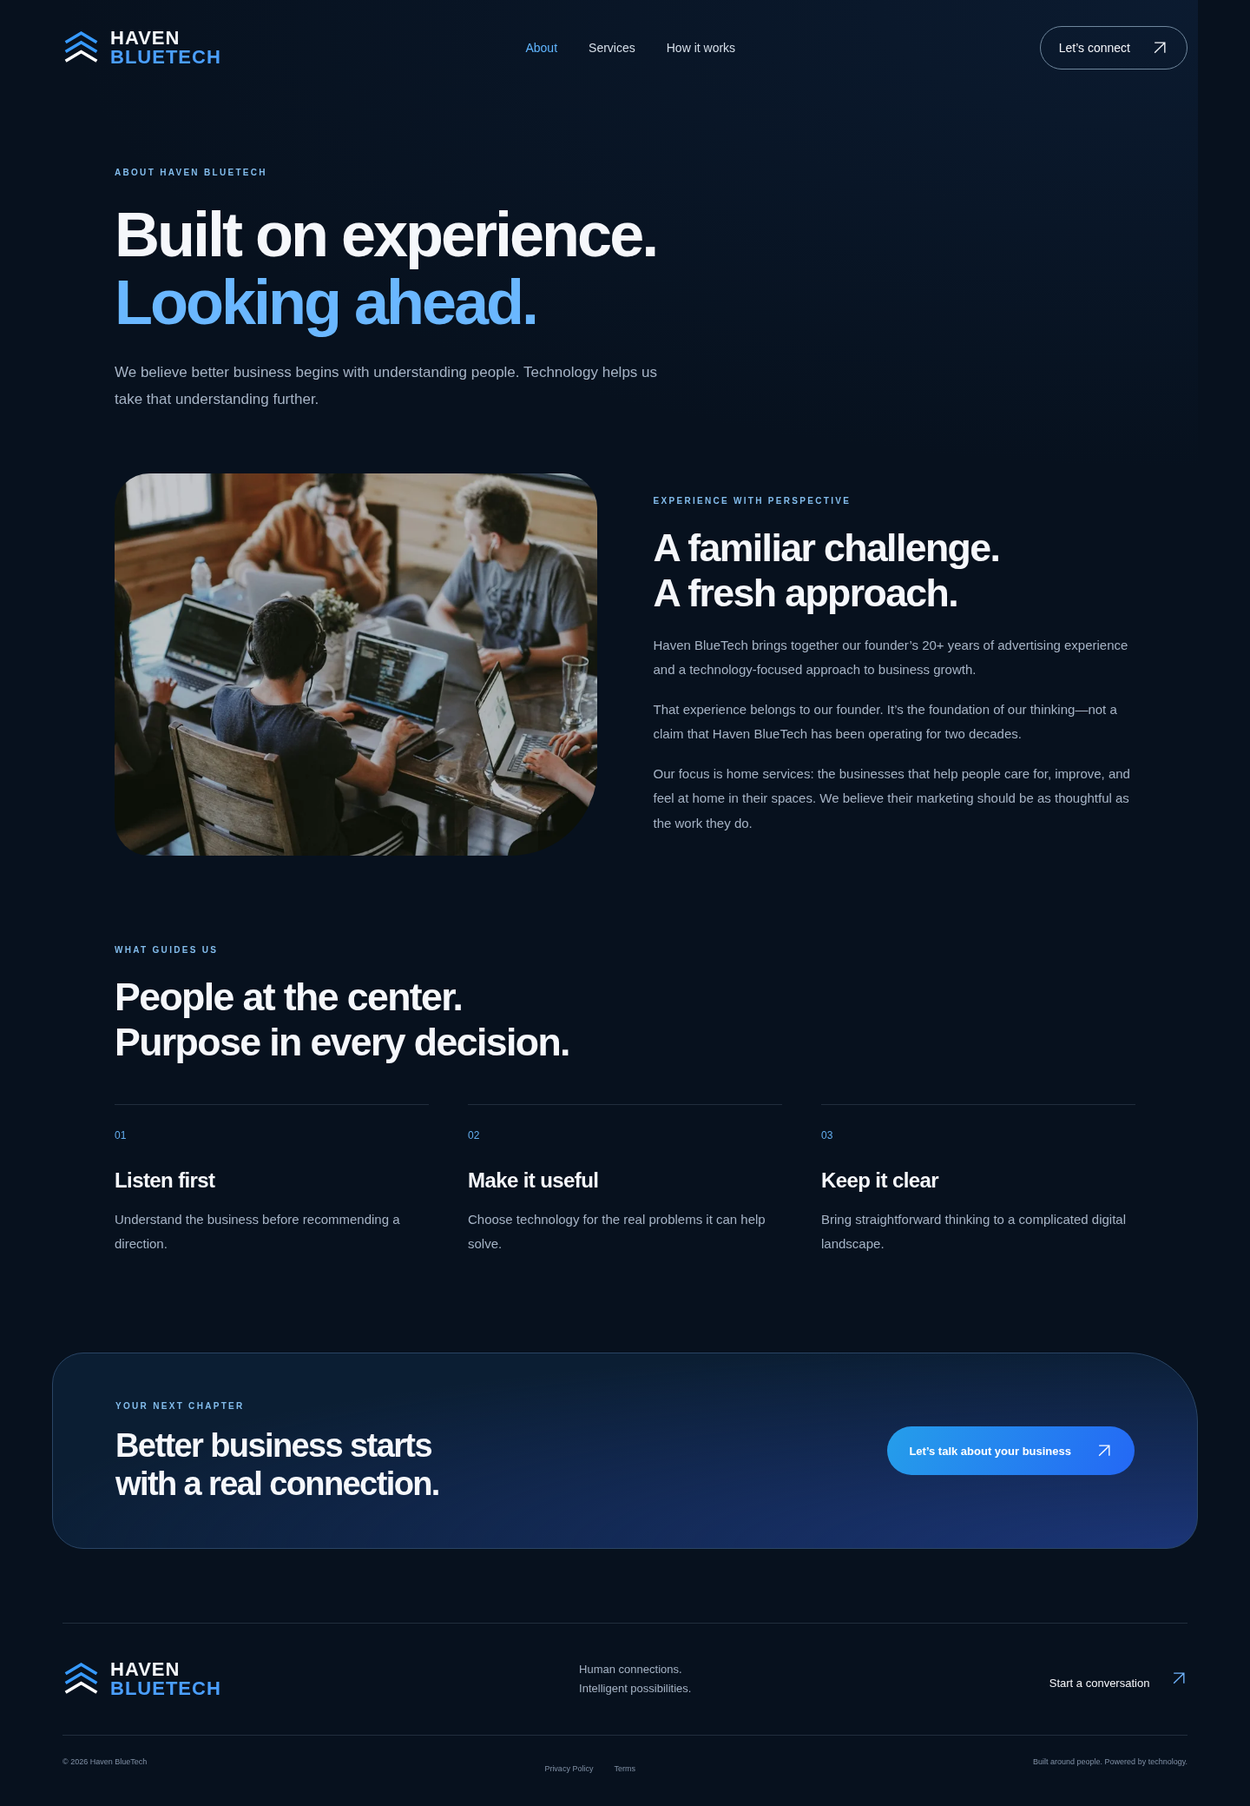
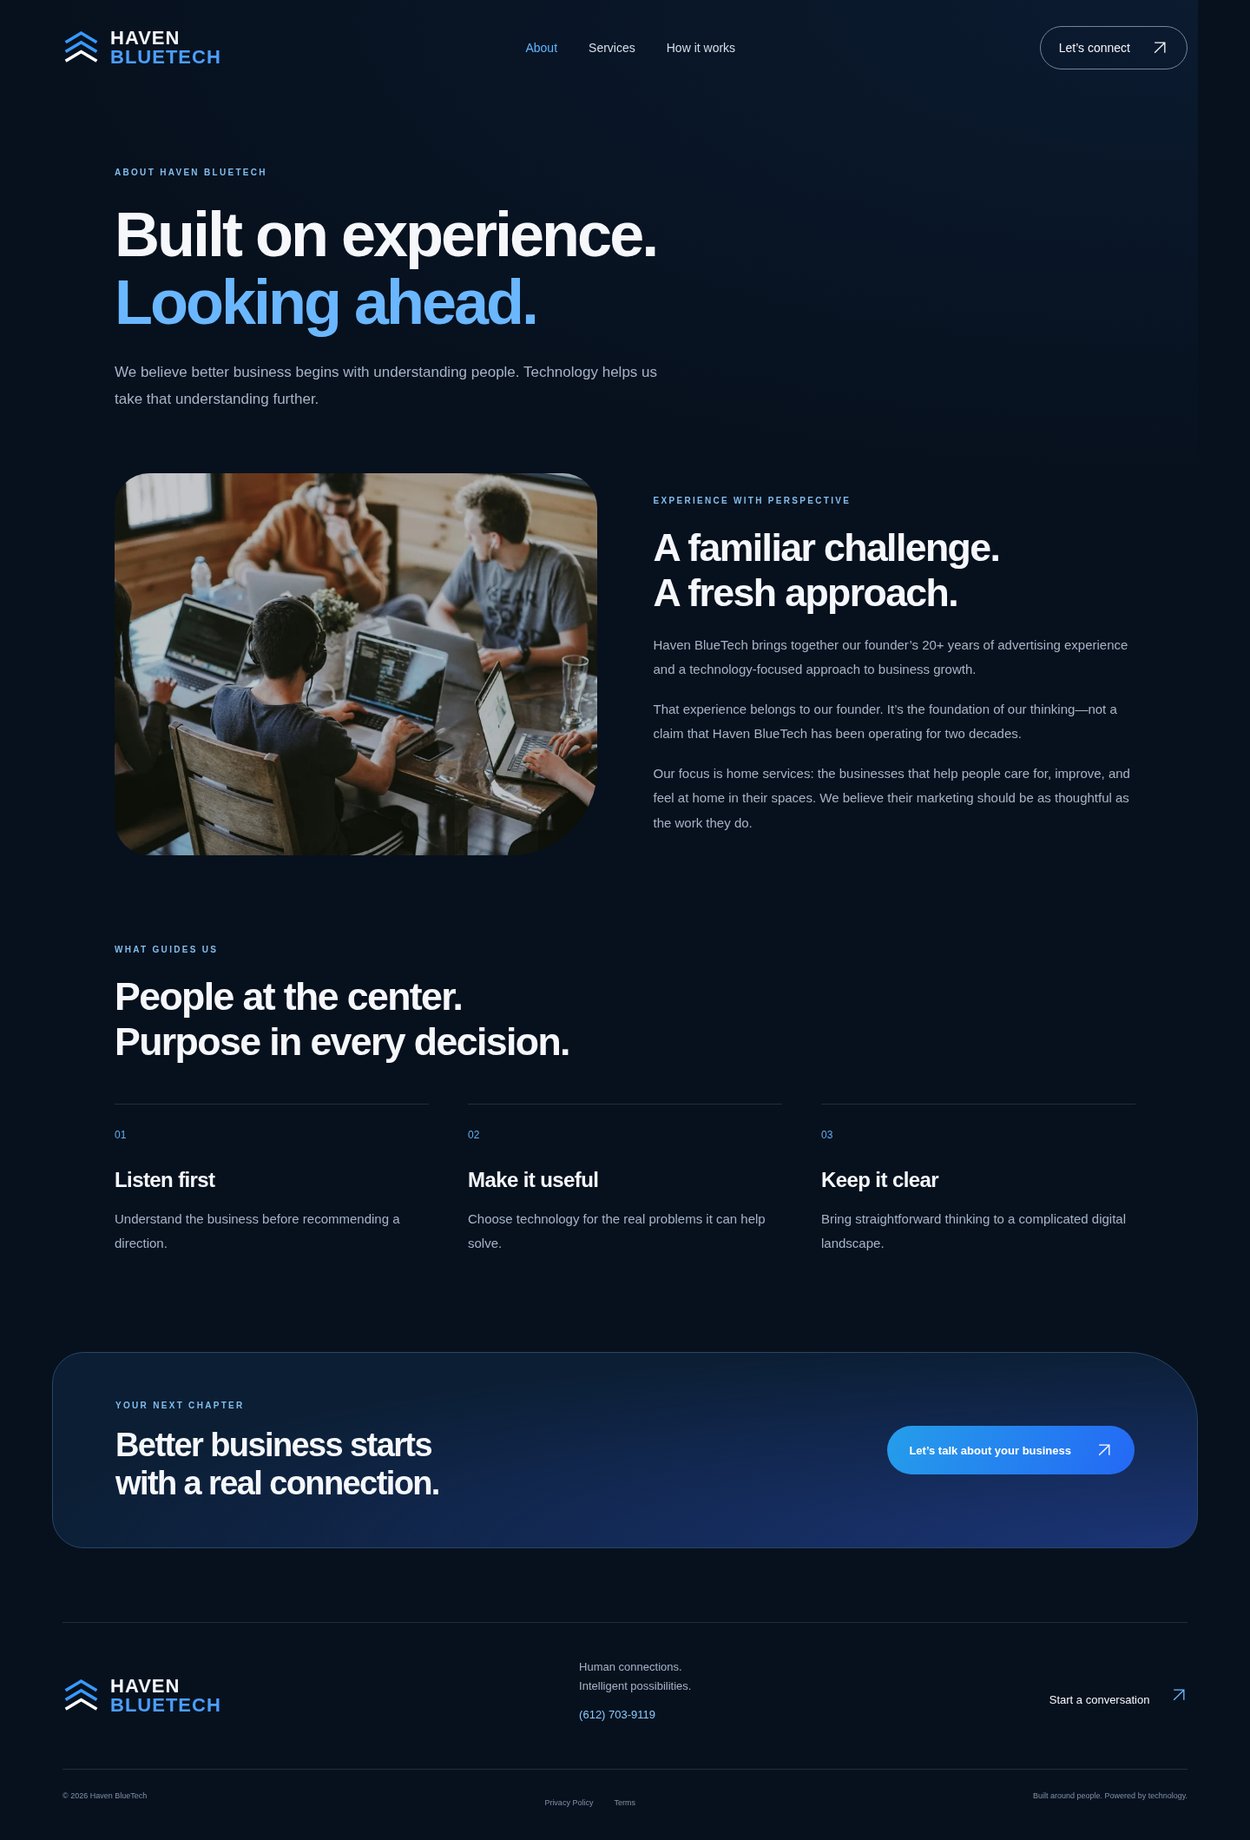
feat: add public business phone contact links

diff --git a/src/render.ts b/src/render.ts
@@ -4,7 +4,7 @@ const nav = [['About','/about'],['Services','/services'],['How it works','/how-i
 const button = (label:string, href:string, secondary=false) => `<a class="button ${secondary?'secondary':''}" href="${href}">${label}${arrow}</a>`;
 const logo = `<a class="brand" href="/" aria-label="Haven BlueTech home"><svg viewBox="0 0 48 48" aria-hidden="true"><path d="m4 17 20-12 20 12M4 29l20-12 20 12"/><path class="white" d="m4 41 20-12 20 12"/></svg><span>HAVEN<span class="brand-blue">BLUETECH</span></span></a>`;
 const header = `<a class="skip" href="#main">Skip to content</a><header class="header"><div class="nav-wrap">${logo}<nav class="desktop-nav" aria-label="Main navigation">${nav.map(([label,href])=>`<a ${route===href?'aria-current="page"':''} href="${href}">${label}</a>`).join('')}</nav><a class="nav-cta" href="/contact">Let’s connect ${arrow}</a><button class="menu-toggle" aria-label="Open navigation" aria-expanded="false" aria-controls="mobile-nav"><span></span><span></span></button></div><nav id="mobile-nav" class="mobile-nav" aria-label="Mobile navigation" hidden>${[...nav,['Let’s connect','/contact']].map(([label,href])=>`<a href="${href}">${label}${arrow}</a>`).join('')}</nav></header>`;
-const footer = `<footer class="footer"><div class="footer-top">${logo}<p>Human connections.<br>Intelligent possibilities.</p><a href="/contact">Start a conversation ${arrow}</a></div><div class="footer-bottom"><span>© ${new Date().getFullYear()} Haven BlueTech</span><div><a href="/privacy">Privacy Policy</a><a href="/terms">Terms</a></div><span>Built around people. Powered by technology.</span></div></footer>`;
+const footer = `<footer class="footer"><div class="footer-top">${logo}<p>Human connections.<br>Intelligent possibilities.<br><a class="footer-phone" href="tel:+16127039119">(612) 703-9119</a></p><a href="/contact">Start a conversation ${arrow}</a></div><div class="footer-bottom"><span>© ${new Date().getFullYear()} Haven BlueTech</span><div><a href="/privacy">Privacy Policy</a><a href="/terms">Terms</a></div><span>Built around people. Powered by technology.</span></div></footer>`;
 const features = [
  {title:'Decades of experience.',desc:'Advertising perspective that sees the bigger picture.',image:'experience',tag:'01 / EXPERIENCE',cls:'experience',alt:'Marketing team collaborating around a table in a bright studio'},
  {title:'Meaningful connections.',desc:'Real people. The right conversations.',image:'connections',tag:'02 / CONNECTION',cls:'connections',alt:'Home renovation consultation with two people reviewing a floor plan'},
@@ -21,7 +21,7 @@ const pageHero = (label:string,title:string,desc:string) => `<section class="pag
 const about = `<main id="main">${pageHero('ABOUT HAVEN BLUETECH','Built on experience.<br><em>Looking ahead.</em>','We believe better business begins with understanding people. Technology helps us take that understanding further.')}<section class="split section"> <div class="editorial-image reveal">${image('experience','Advertising professionals sharing ideas in a studio')}</div><div class="prose reveal"><span class="eyebrow">EXPERIENCE WITH PERSPECTIVE</span><h2>A familiar challenge.<br>A fresh approach.</h2><p>Haven BlueTech brings together our founder’s 20+ years of advertising experience and a technology-focused approach to business growth.</p><p>That experience belongs to our founder. It’s the foundation of our thinking—not a claim that Haven BlueTech has been operating for two decades.</p><p>Our focus is home services: the businesses that help people care for, improve, and feel at home in their spaces. We believe their marketing should be as thoughtful as the work they do.</p></div></section><section class="values section"><span class="eyebrow">WHAT GUIDES US</span><h2>People at the center.<br>Purpose in every decision.</h2><div class="value-grid">${[['01','Listen first','Understand the business before recommending a direction.'],['02','Make it useful','Choose technology for the real problems it can help solve.'],['03','Keep it clear','Bring straightforward thinking to a complicated digital landscape.']].map(([n,t,d])=>`<article><span>${n}</span><h3>${t}</h3><p>${d}</p></article>`).join('')}</div></section>${cta}</main>`;
 const services = `<main id="main">${pageHero('OUR SERVICES','Your business.<br><em>More connected.</em>','Advertising thinking and modern digital tools, shaped around the needs of home service businesses.')}<section class="service-list section">${[['01','Advertising & marketing strategy','A clear direction before the next investment.','Clarify your audience, positioning, and marketing priorities. Turn experience into a practical plan for reaching the people your business is built to serve.','experience'],['02','Digital presence & experiences','Make every first impression count.','Bring clarity to how your business shows up online, with thoughtful website experiences and messaging that help potential customers understand their next step.','technology'],['03','Connection-focused marketing','Make the right conversations easier.','Consider the whole journey from discovering your business to making an inquiry. Create a more coherent path between your marketing and your customer conversations.','connections'],['04','Practical technology direction','Better tools, with a clear purpose.','Explore digital tools and ways of working that fit your business. Focus on useful connections, simpler processes, and an approach your team can understand.','strategy']].map(([n,t,s,d,img])=>`<article class="service-row reveal"><div class="service-photo">${image(img,t)}</div><div><span class="eyebrow">${n} / HOW WE HELP</span><h2>${t}</h2><h3>${s}</h3><p>${d}</p><a class="text-link" href="/contact">Talk about your goals ${arrow}</a></div></article>`).join('')}</section><div class="service-note section"><p>Every engagement starts with a conversation. Scope, deliverables, timing, and fees are agreed separately before work begins.</p></div>${cta}</main>`;
 const how = `<main id="main">${pageHero('HOW IT WORKS','Start with a conversation.<br><em>Build with intention.</em>','No one-size-fits-all formula. Just a thoughtful process that starts with where you are and where you want to go.')}<section class="process section">${[['01','Listen & understand','We talk about your business, your customers, and what you want to improve. Bring your questions, current challenges, and ambitions.','A shared understanding of your priorities.'],['02','Find the opportunity','We look at how your advertising, online presence, and tools fit together, then identify where a clearer connection could make a difference.','A focused direction grounded in your business.'],['03','Define the plan','Together, we agree on the work, the responsibilities, and the next steps. You’ll know the scope and fees before committing to an engagement.','A clear proposal you can review.'],['04','Build & evolve','We move through the agreed work with open communication. As your needs change, we revisit what makes sense for the next stage.','Practical progress and a considered next step.']].map(([n,t,d,o])=>`<article class="process-row reveal"><span>${n}</span><div><h2>${t}</h2><p>${d}</p><small>${o}</small></div></article>`).join('')}</section>${cta}</main>`;
-const contact = `<main id="main">${pageHero('LET’S CONNECT','Good things start<br><em>with a conversation.</em>','Tell us a little about your business and what’s next. Let’s find where experience and technology can help.')}<section class="contact-layout section"><div class="contact-aside"><div class="editorial-image">${image('connections','Two people discussing a home renovation floor plan')}</div><h2>Your next move starts here.</h2><p>Home service business? A new direction? A challenge worth solving? Start with the details that matter to you.</p><div class="contact-note"><span class="eyebrow">CONTACT PREVIEW</span><p>Online submissions are not enabled yet. You can prepare and download your inquiry below. Nothing is sent or stored by this website.</p></div></div><form id="contact-form"><noscript><p class="contact-note">Enable JavaScript to prepare a local inquiry download. Online submissions are not enabled.</p></noscript><fieldset disabled><label for="name">Your name <span>(required)</span></label><input id="name" name="name" autocomplete="name" required maxlength="120"/><label for="email">Email address <span>(required)</span></label><input id="email" name="email" type="email" autocomplete="email" required maxlength="254"/><label for="company">Business name</label><input id="company" name="company" autocomplete="organization" maxlength="180"/><label for="interest">What’s on your mind?</label><select id="interest" name="interest"><option>Advertising & marketing strategy</option><option>Digital presence & experiences</option><option>Connection-focused marketing</option><option>Practical technology direction</option><option>Let’s explore the possibilities</option></select><label for="message">Tell us about your goals <span>(required)</span></label><textarea id="message" name="message" required minlength="10" maxlength="5000" rows="5"></textarea><p class="form-privacy">Your details stay in this browser until you download your inquiry. Read our <a href="/privacy">Privacy Policy</a>.</p><button class="button" type="submit">Prepare my inquiry ${arrow}</button><p id="form-status" role="status" tabindex="-1"></p></fieldset></form></section></main>`;
+const contact = `<main id="main">${pageHero('LET’S CONNECT','Good things start<br><em>with a conversation.</em>','Tell us a little about your business and what’s next. Let’s find where experience and technology can help.')}<section class="contact-layout section"><div class="contact-aside"><div class="editorial-image">${image('connections','Two people discussing a home renovation floor plan')}</div><h2>Your next move starts here.</h2><p>Home service business? A new direction? A challenge worth solving? Start with the details that matter to you.</p><div class="business-phone"><span class="eyebrow">CALL HAVEN BLUETECH</span><a href="tel:+16127039119">(612) 703-9119</a></div><div class="contact-note"><span class="eyebrow">CONTACT PREVIEW</span><p>Call us to start a conversation. Online submissions are not enabled yet; you can prepare and download your inquiry below. Nothing is sent or stored by this website.</p></div></div><form id="contact-form"><noscript><p class="contact-note">Enable JavaScript to prepare a local inquiry download. Online submissions are not enabled.</p></noscript><fieldset disabled><label for="name">Your name <span>(required)</span></label><input id="name" name="name" autocomplete="name" required maxlength="120"/><label for="email">Email address <span>(required)</span></label><input id="email" name="email" type="email" autocomplete="email" required maxlength="254"/><label for="company">Business name</label><input id="company" name="company" autocomplete="organization" maxlength="180"/><label for="interest">What’s on your mind?</label><select id="interest" name="interest"><option>Advertising & marketing strategy</option><option>Digital presence & experiences</option><option>Connection-focused marketing</option><option>Practical technology direction</option><option>Let’s explore the possibilities</option></select><label for="message">Tell us about your goals <span>(required)</span></label><textarea id="message" name="message" required minlength="10" maxlength="5000" rows="5"></textarea><p class="form-privacy">Your details stay in this browser until you download your inquiry. Read our <a href="/privacy">Privacy Policy</a>.</p><button class="button" type="submit">Prepare my inquiry ${arrow}</button><p id="form-status" role="status" tabindex="-1"></p></fieldset></form></section></main>`;
 const privacy = `<main id="main" class="legal">${pageHero('LEGAL','Privacy Policy','Effective November 10, 2026. This policy describes the current Haven BlueTech frontend website.')}<article class="legal-body section"><h2>Information on this website</h2><p>This website does not provide accounts, payments, advertising trackers, or a server-side contact form. Contact fields are processed locally in your browser to create a downloadable inquiry. The website does not transmit those form fields to Haven BlueTech.</p><h2>Hosting and technical information</h2><p>When this website is hosted, its hosting provider may process technical request information, such as IP addresses, browser details, requested pages, and timestamps, to deliver and secure the service. Applicable retention depends on the hosting configuration and provider policies.</p><h2>Cookies and local storage</h2><p>This frontend does not intentionally set cookies or use local storage. It does not include analytics or marketing pixels. Photographs are served from this website’s own assets.</p><h2>Your inquiry</h2><p>If you choose to download an inquiry, the resulting file contains the details you entered. Keep or delete that file as you prefer. Downloading it does not send an inquiry. If you later share it through email or another service, that service’s privacy practices apply.</p><h2>External links</h2><p>Links to external websites are subject to those websites’ policies. Haven BlueTech does not control their practices.</p><h2>Changes and questions</h2><p>This policy should be updated before any new data collection, analytics, or submission service is enabled. For privacy questions, use the contact method published on our <a href="/contact">Contact page</a> when available.</p></article></main>`;
 const terms = `<main id="main" class="legal">${pageHero('LEGAL','Terms of Use','Effective November 10, 2026. Please read these terms before using this website.')}<article class="legal-body section"><h2>Using this website</h2><p>This website provides general information about Haven BlueTech and its approach to advertising and technology. You may use it for lawful purposes. Do not attempt to damage the website, interfere with access, or misuse its content.</p><h2>Information and results</h2><p>Website content is informational and does not constitute a binding offer or professional advice. Descriptions of services are illustrative. Business outcomes depend on many factors, and no specific level of leads, sales, revenue, or performance is guaranteed.</p><h2>Services and agreements</h2><p>Any engagement requires a separate written agreement defining scope, fees, timing, responsibilities, and other applicable terms. Preparing or downloading an inquiry does not create a client relationship or submit a request.</p><h2>Intellectual property</h2><p>Haven BlueTech branding and original website content are protected by applicable intellectual property laws. Photographs are used under their respective licenses. Third-party rights remain with their owners.</p><h2>Availability and external websites</h2><p>We aim to keep information accurate but do not guarantee uninterrupted access or complete accuracy. External websites operate independently and are governed by their own terms.</p><h2>Liability</h2><p>To the extent permitted by applicable law, Haven BlueTech is not responsible for losses arising from reliance on general website information or interruptions to website access. Nothing in these terms excludes rights or liabilities that cannot lawfully be excluded.</p><h2>Updates and contact</h2><p>These terms may be updated as the website evolves. For questions, see the <a href="/contact">Contact page</a>. Any service-specific terms will be provided separately.</p></article></main>`;
 const pages:Record<string,string> = {'/':home,'/index':home,'/about':about,'/services':services,'/how-it-works':how,'/contact':contact,'/privacy':privacy,'/terms':terms};

diff --git a/src/main.ts b/src/main.ts
@@ -13,4 +13,4 @@ const heroImage = document.querySelector<HTMLElement>('.hero > img');
 if(heroImage&&matchMedia('(min-width: 901px) and (pointer: fine)').matches&&!reduced.matches&&!(navigator as Navigator&{connection?:{saveData:boolean}}).connection?.saveData){let ticking=false;window.addEventListener('scroll',()=>{if(!ticking){requestAnimationFrame(()=>{heroImage.style.transform=`translateY(${Math.min(window.scrollY*0.12,90)}px) scale(1.08)`;ticking=false;});ticking=true;}},{passive:true});}
 const inquiryFields=document.querySelector<HTMLFieldSetElement>('#contact-form fieldset');
 if(inquiryFields) inquiryFields.disabled=false;
-document.querySelector<HTMLFormElement>('#contact-form')?.addEventListener('submit',event=>{event.preventDefault();const data=new FormData(event.currentTarget as HTMLFormElement);const text=`Haven BlueTech — consultation inquiry\n\n${Array.from(data.entries()).map(([k,v])=>`${k}: ${v}`).join('\n\n')}\n\nThis inquiry has not been sent.`;const blob=new Blob([text],{type:'text/plain;charset=utf-8'});const url=URL.createObjectURL(blob);const a=document.createElement('a');a.href=url;a.download='haven-bluetech-inquiry.txt';a.click();setTimeout(()=>URL.revokeObjectURL(url),1000);const status=document.querySelector<HTMLElement>('#form-status')!;status.textContent='Your inquiry file is ready. Nothing has been sent. Save the file to share when a public contact method is available.';status.focus();});
+document.querySelector<HTMLFormElement>('#contact-form')?.addEventListener('submit',event=>{event.preventDefault();const data=new FormData(event.currentTarget as HTMLFormElement);const text=`Haven BlueTech — consultation inquiry\n\n${Array.from(data.entries()).map(([k,v])=>`${k}: ${v}`).join('\n\n')}\n\nThis inquiry has not been sent.`;const blob=new Blob([text],{type:'text/plain;charset=utf-8'});const url=URL.createObjectURL(blob);const a=document.createElement('a');a.href=url;a.download='haven-bluetech-inquiry.txt';a.click();setTimeout(()=>URL.revokeObjectURL(url),1000);const status=document.querySelector<HTMLElement>('#form-status')!;status.textContent='Your inquiry file is ready. Nothing has been sent. Call (612) 703-9119 to discuss your inquiry.';status.focus();});

diff --git a/src/style.css b/src/style.css
@@ -3,3 +3,5 @@
 .arrow{display:inline-flex;width:20px;height:20px;flex-shrink:0}.arrow svg{width:100%;height:100%}.scroll-arrow{width:8px;height:20px;position:relative;border-left:1px solid #b2c2d0}.scroll-arrow:after{content:'';position:absolute;width:6px;height:6px;border-bottom:1px solid #b2c2d0;border-right:1px solid #b2c2d0;transform:rotate(45deg);left:-4px;bottom:0}.hero h1>span{color:#fff}.card-link{min-width:44px;min-height:44px}.footer-bottom a{display:inline-block;padding:8px 0}.feature.strategy img{object-position:40% center}
 
 #contact-form fieldset{border:0;margin:0;padding:0;width:100%;display:flex;flex-direction:column;align-items:start;min-width:0}
+
+.business-phone{margin-top:28px}.business-phone>a{display:inline-flex;align-items:center;min-height:48px;font-size:28px;font-weight:700;letter-spacing:-.6px;color:#8acaff}.business-phone>a:hover,.footer-phone:hover{text-decoration:underline}.footer-phone{display:inline-flex;align-items:center;min-height:44px;color:#8acaff}

diff --git a/README.md b/README.md
@@ -30,7 +30,7 @@ The script checks all pages at 390px and 1440px, loads lazy images through scrol
 
 ## Contact behavior and launch details
 
-The contact form intentionally prepares a local text-file download. It does **not** send requests or claim that a message was delivered. No public company email address was supplied. Replace this preview behavior with an approved email destination or form service before launching consultation intake; update Privacy Policy accordingly. Do not put private service keys in client code.
+The contact form intentionally prepares a local text-file download. It does **not** send requests or claim that a message was delivered. Business phone: (612) 703-9119, linked on Contact and in the global footer. No public company email address was supplied. Replace this preview behavior with an approved email destination or form service before launching consultation intake; update Privacy Policy accordingly. Do not put private service keys in client code.
 
 Copy ties “20+ years” specifically to the founder’s advertising experience, without claiming a company operating history or invented performance metrics. Services describe a proposed offering; confirm scope and public company/legal contact details before production. The legal pages accurately describe this frontend's current behavior and should be reviewed for the final business and hosting configuration.
 
